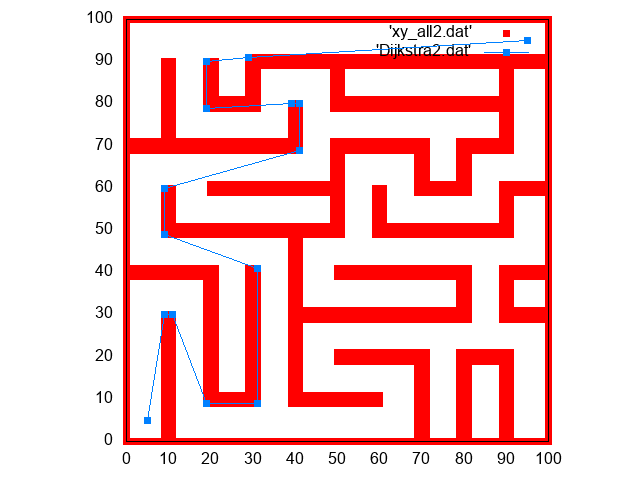
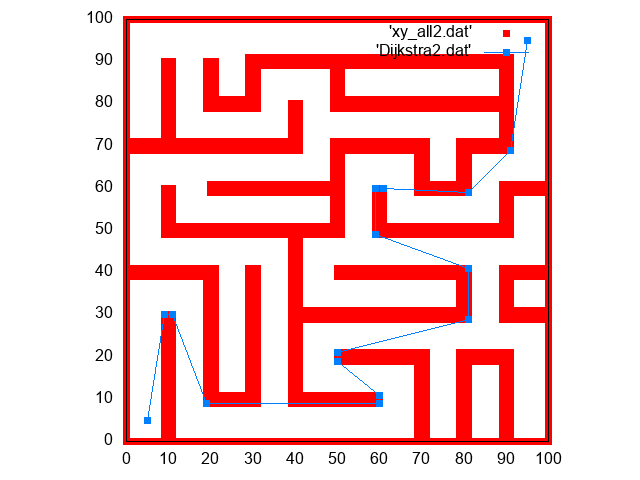
Add files via upload
再掲

diff --git a/sekine/make_map.cpp b/sekine/make_map.cpp
@@ -80,7 +80,7 @@ int spc_ex2(double x, double y){
         if(y < 80 ) return (( x==10 || x==40 || x==90) ? 1 : 0);
         if(y == 80) return (( x==10 || (x>=20&&x<=30) || x==40 || (x>=50&&x<=90)) ? 1 : 0);
         if(y < 90 ) return (( x==10 || x==20 || x==30 || x==50 || x==90) ? 1 :0);
-        if(y == 90) return (( x==10 || x==20 || x>=30) ? 1 : 0);
+        if(y == 90) return (( x==10 || x==20 || (x>=30&&x<=90)) ? 1 : 0);
         if(y < 100) return 0;
         if(y ==100) return 1;
         if(y > 100) return 1;

diff --git a/sekine/Dijkstra_5.cpp b/sekine/Dijkstra_5.cpp
@@ -345,7 +345,8 @@ void print_array(Node node[], int s){
   int dij[s];
   int i_d = 0;
   int k = s-1;
-  //dij[i_d] = k;
+  dij[i_d] = k;
+  i_d += 1;
   while(k != 0){
     dij[i_d] = node[k].path;
     i_d += 1;
